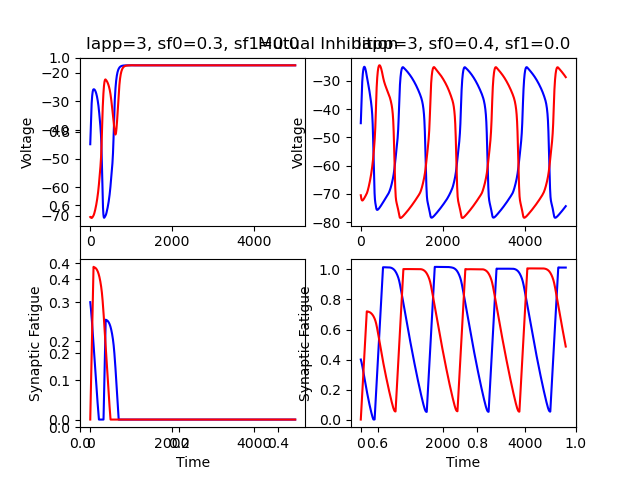
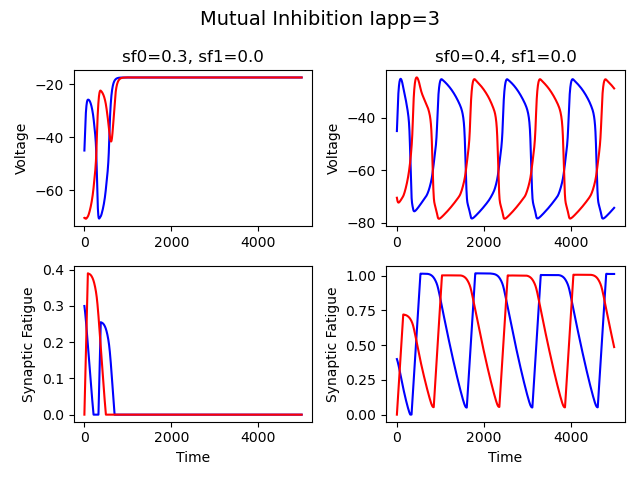
changed plot layout

Changed region(s): [[0.0, 0.0, 0.9688, 0.9688], [0.9375, 0.4375, 0.9688, 0.4688]]

diff --git a/tests/test_two_inh.py b/tests/test_two_inh.py
@@ -93,30 +93,30 @@ def run(Iapp=3, V0=-45.0, first_start=0.3, second_start=0.4, save=True):
     inits1 = np.append(V_init, F_init_second)
     sol1 = solve_ivp(ode, [0.0, tf], inits1, method='BDF', t_eval=t)
 
-    plt.figure()
-    plt.title("Mutual Inhibition")
+    fig, axes = plt.subplots(2, 2)
+    fig.suptitle(f"Mutual Inhibition Iapp={Iapp}", fontsize=14)
+
     # "bad" plot
-    plt.subplot(2, 2, 1)
-    plt.plot(sol.t, sol.y[0, :], color="blue")
-    plt.plot(sol.t, sol.y[1, :], color="red")
-    plt.ylabel("Voltage")
-    plt.title(f"Iapp={Iapp}, sf0={first_start}, sf1={F_init_first[1,0]}")
-    plt.subplot(2, 2, 3)
-    plt.plot(sol.t, sol.y[2, :], color="blue")
-    plt.plot(sol.t, sol.y[3, :], color="red")
-    plt.ylabel("Synaptic Fatigue")
-    plt.xlabel("Time")
+    axes[0, 0].set_title(f"sf0={first_start}, sf1={F_init_first[1,0]}")
+    axes[0, 0].plot(sol.t, sol.y[0, :], color="blue")
+    axes[0, 0].plot(sol.t, sol.y[1, :], color="red")
+    axes[0, 0].set_ylabel("Voltage")
+    axes[1, 0].plot(sol.t, sol.y[2, :], color="blue")
+    axes[1, 0].plot(sol.t, sol.y[3, :], color="red")
+    axes[1, 0].set_ylabel("Synaptic Fatigue")
+    axes[1, 0].set_xlabel("Time")
+
     # "good" plot
-    plt.subplot(2, 2, 2)
-    plt.plot(sol1.t, sol1.y[0, :], color="blue")
-    plt.plot(sol1.t, sol1.y[1, :], color="red")
-    plt.ylabel("Voltage")
-    plt.title(f"Iapp={Iapp}, sf0={second_start}, sf1={F_init_second[1,0]}")
-    plt.subplot(2, 2, 4)
-    plt.plot(sol1.t, sol1.y[2, :], color="blue")
-    plt.plot(sol1.t, sol1.y[3, :], color="red")
-    plt.ylabel("Synaptic Fatigue")
-    plt.xlabel("Time")
+    axes[0, 1].set_title(f"sf0={second_start}, sf1={F_init_second[1,0]}")
+    axes[0, 1].plot(sol1.t, sol1.y[0, :], color="blue")
+    axes[0, 1].plot(sol1.t, sol1.y[1, :], color="red")
+    axes[0, 1].set_ylabel("Voltage")
+    axes[1, 1].plot(sol1.t, sol1.y[2, :], color="blue")
+    axes[1, 1].plot(sol1.t, sol1.y[3, :], color="red")
+    axes[1, 1].set_ylabel("Synaptic Fatigue")
+    axes[1, 1].set_xlabel("Time")
+
+    fig.tight_layout()
 
     if save:
         plt.savefig(os.path.join(MEDIA_DIR, f"Iapp{Iapp}-N1{first_start*100}-N2{second_start*100}.png"))
@@ -125,4 +125,6 @@ def run(Iapp=3, V0=-45.0, first_start=0.3, second_start=0.4, save=True):
 
 
 if __name__ == "__main__":
+    run(Iapp=2)
     run()
+    run(Iapp=3)
